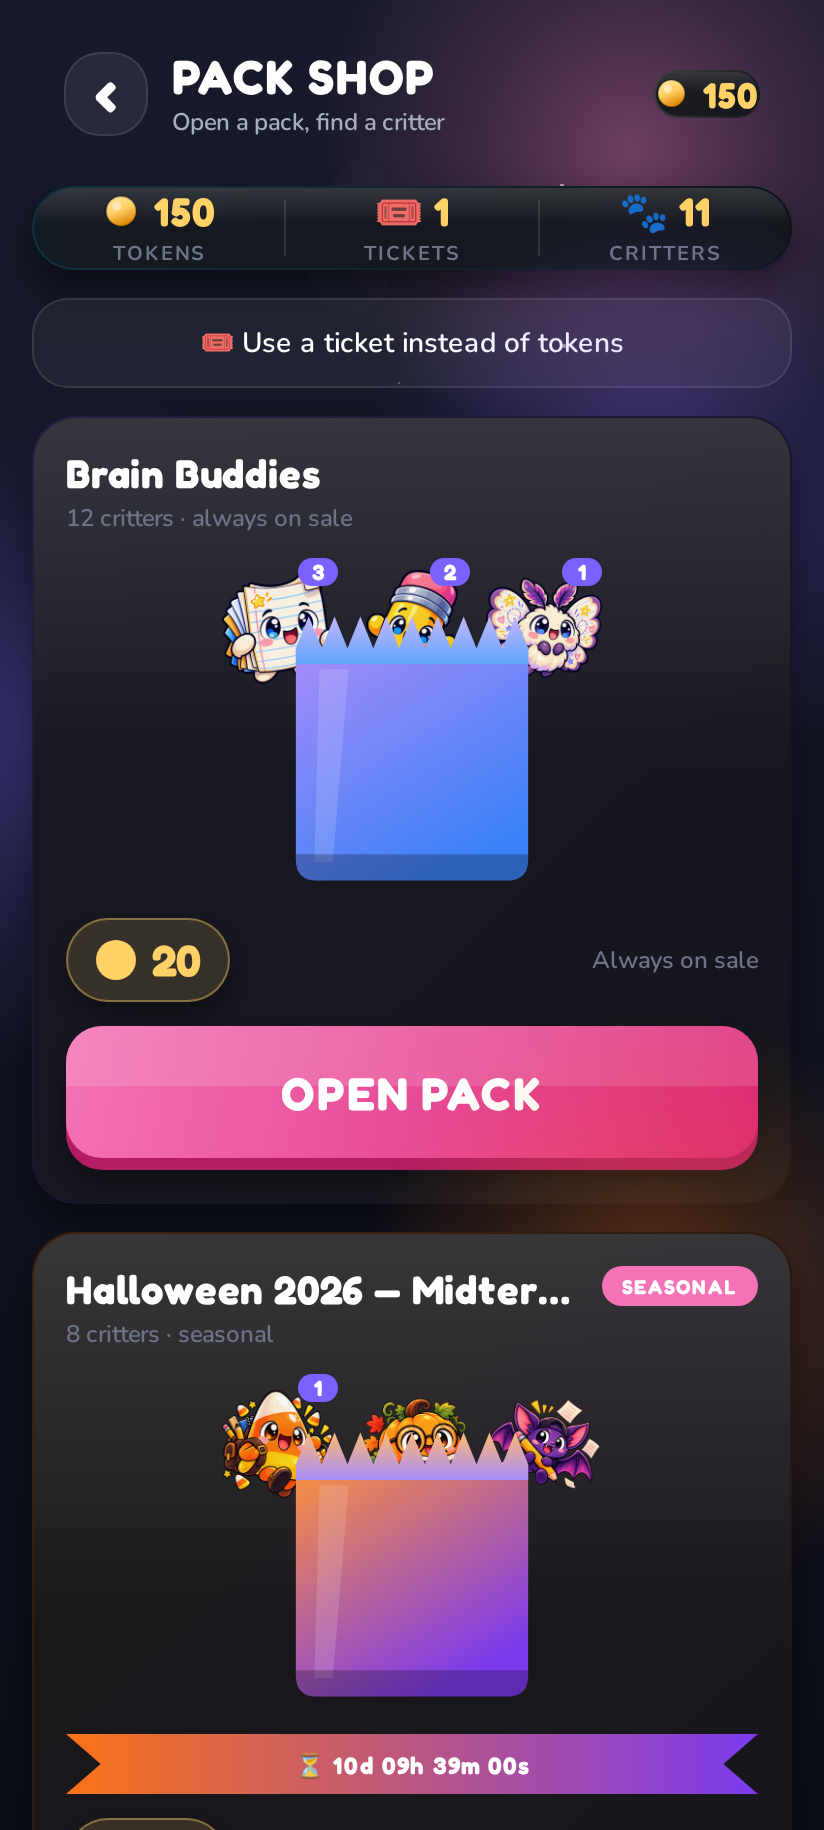
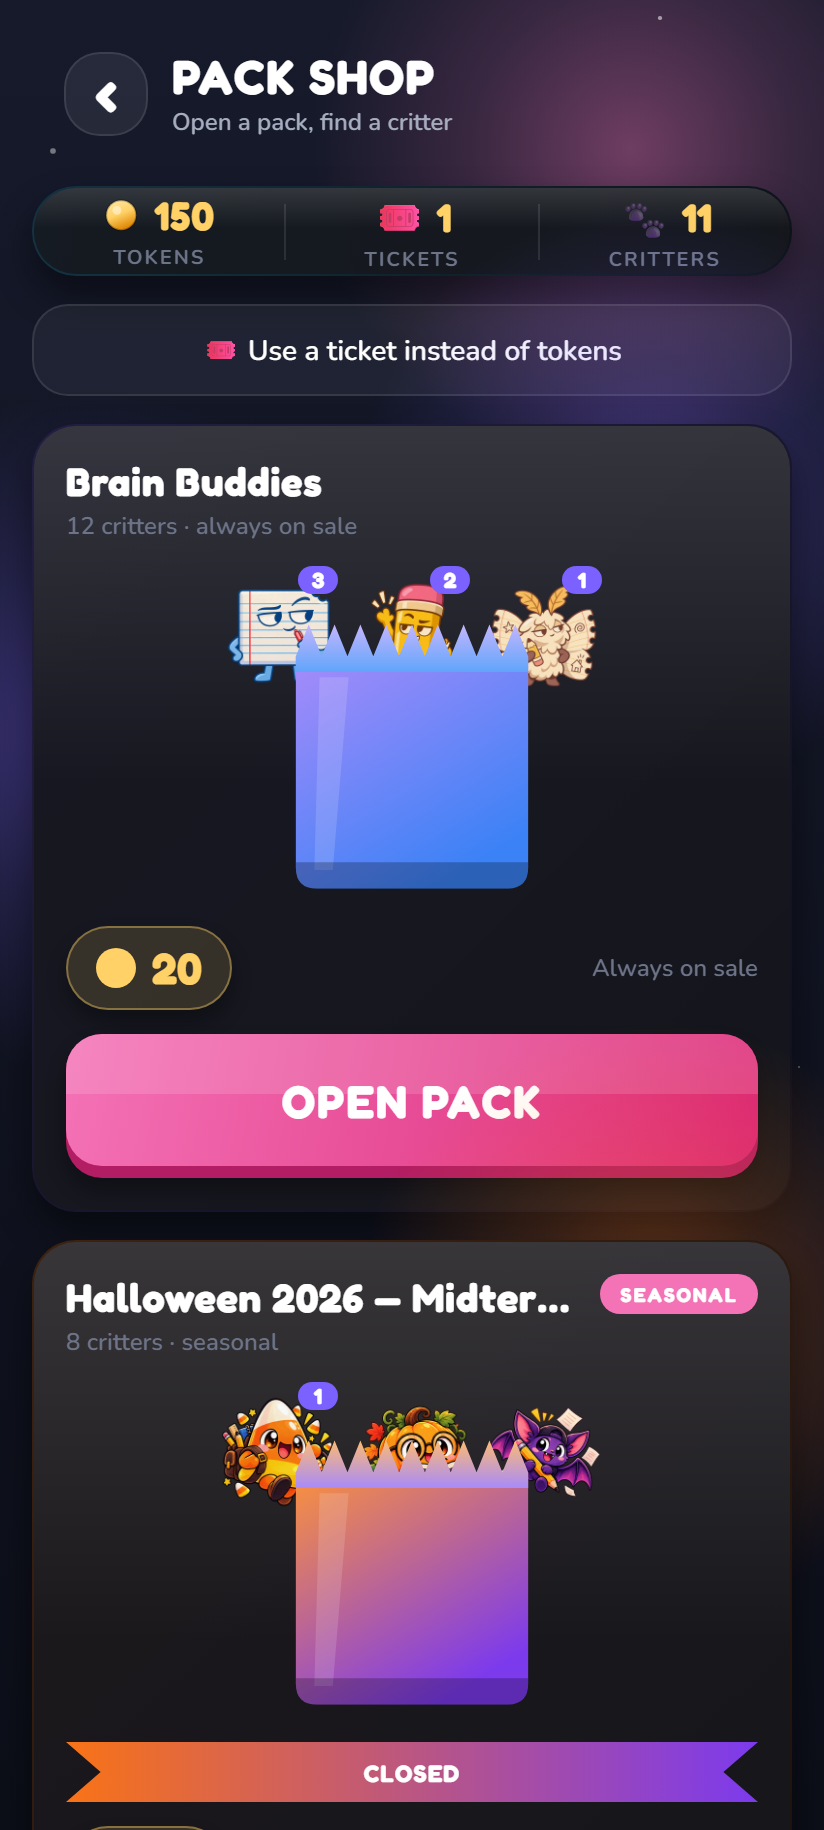
art: reskin all 12 Brain Buddies critters in the new art style; bump app to 0.1.31
Generated with Codex image generation, one image per call, each reviewed against docs/design/critter-card.md and normalised (cropped, even margin, 512x512). The pack changes together so it never mixes two styles. Nibbles is redrawn as a flat front-facing card, so its flavor line no longer says folded.

diff --git a/packages/core/src/content/critters.ts b/packages/core/src/content/critters.ts
@@ -68,7 +68,7 @@ export const CRITTERS: readonly CritterDef[] = [
     name: 'Nibbles the Notecard',
     packId: 'brain_buddies',
     rarity: 'common',
-    vibe: 'A folded index card that snacks on loose facts.',
+    vibe: 'A neat index card that snacks on loose facts.',
     assetId: 'critter_nibbles_the_notecard',
     emoji: '🗂',
   },
